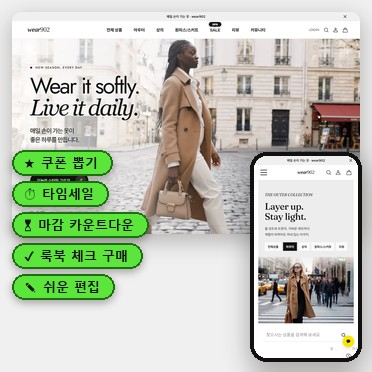
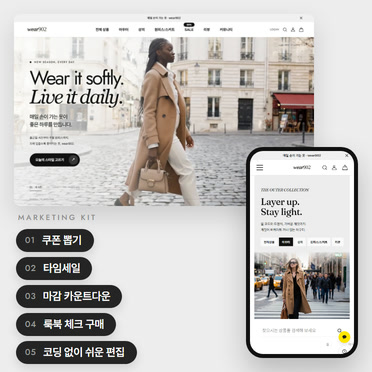
디자인센터 등록 이미지 : 셀링 포인트 5개를 쇼핑몰 톤(흑백 · Pretendard · Jost)으로 다시 그림

diff --git a/docs/tools/designcenter/listing-badges.js b/docs/tools/designcenter/listing-badges.js
@@ -1,0 +1,57 @@
+// 디자인센터 등록 이미지 3장 + 셀링 포인트 5개 (쇼핑몰과 같은 흑백 톤 · Pretendard · Jost)
+//   node docs/tools/designcenter/listing-badges.js
+// 입력 : _deploy/dc/desk.png (PC 1280×820) · mobile-list.png (휴대폰 @2x) — dcshot.js 로 찍는다
+// 출력 : _deploy/dc/badge/main.jpg 372×372 (목록 카드) · display.jpg 330×489 · thumb.jpg 330×450
+//        HTML 로 그려 2배로 캡처한 뒤 ffmpeg 로 줄인다 (글자가 또렷하게)
+const puppeteer = require('puppeteer-core');
+const { execFileSync } = require('child_process');
+const path = require('path');
+const fs = require('fs');
+const DC = path.resolve(__dirname, '../../../_deploy/dc');
+const OUT = path.join(DC, 'badge'); fs.mkdirSync(OUT, { recursive: true });
+const url = f => 'file:///' + path.join(DC, f).replace(/\\/g, '/');
+
+const POINTS = ['쿠폰 뽑기', '타임세일', '마감 카운트다운', '룩북 체크 구매', '코딩 없이 쉬운 편집'];
+
+// pc : [x, y, 폭] · phone : [오른쪽 여백, 아래 여백, 폭] · kit : [x, y] 셀링 포인트 블록 위치
+const SIZES = {
+  main:    { w: 372, h: 372, pc: [14, 14, 300], phone: [14, 14, 104], kit: [16, 214], fs: 11 },
+  display: { w: 330, h: 489, pc: [12, 14, 306], phone: [14, 14, 124], kit: [14, 232], fs: 12.5 },
+  thumb:   { w: 330, h: 450, pc: [12, 14, 306], phone: [14, 14, 116], kit: [14, 226], fs: 12 },
+};
+
+const html = s => `<!doctype html><meta charset="utf-8">
+<link rel="stylesheet" href="https://cdn.jsdelivr.net/gh/orioncactus/pretendard@v1.3.9/dist/web/variable/pretendardvariable.min.css">
+<link rel="stylesheet" href="https://fonts.googleapis.com/css2?family=Jost:wght@400;500;600&display=block">
+<style>
+*{margin:0;box-sizing:border-box}
+body{width:${s.w}px;height:${s.h}px;background:#ededed;position:relative;overflow:hidden;font-family:'Pretendard Variable',Pretendard,sans-serif;color:#242424}
+.pc{position:absolute;left:${s.pc[0]}px;top:${s.pc[1]}px;width:${s.pc[2]}px;border-radius:7px;overflow:hidden;box-shadow:0 10px 24px rgba(0,0,0,.14);background:#fff}
+.pc img{display:block;width:100%}
+.ph{position:absolute;right:${s.phone[0]}px;bottom:${s.phone[1]}px;width:${s.phone[2] + 8}px;height:${Math.round(s.phone[2] * 1.95) + 8}px;padding:4px;border-radius:17px;background:#111;box-shadow:0 14px 28px rgba(0,0,0,.22)}
+.ph div{width:100%;height:100%;border-radius:13px;overflow:hidden;background:#fff}.ph img{display:block;width:100%}
+.kit{position:absolute;left:${s.kit[0]}px;top:${s.kit[1]}px}
+.kit small{display:block;font:500 ${s.fs - 3.5}px/1 Jost,sans-serif;letter-spacing:.24em;color:#8a8a8a;margin:0 0 7px 2px}
+.kit ul{list-style:none;padding:0;display:flex;flex-direction:column;align-items:flex-start;gap:${Math.round(s.fs * .42)}px}
+.kit li{display:flex;align-items:center;gap:7px;height:${Math.round(s.fs * 2.05)}px;padding:0 ${Math.round(s.fs * 1.05)}px 0 ${Math.round(s.fs * .85)}px;border-radius:999px;background:#242424;color:#fff;font-size:${s.fs}px;font-weight:600;letter-spacing:-.02em;white-space:nowrap;box-shadow:0 4px 10px rgba(0,0,0,.12)}
+.kit li b{font:500 ${s.fs - 2.5}px/1 Jost,sans-serif;letter-spacing:.04em;color:#9d9d9d}
+</style>
+<div class="pc"><img src="${url('desk.png')}"></div>
+<div class="ph"><div><img src="${url('mobile-list.png')}"></div></div>
+<div class="kit"><small>MARKETING KIT</small><ul>${POINTS.map((p, i) => `<li><b>0${i + 1}</b>${p}</li>`).join('')}</ul></div>`;
+
+(async () => {
+  const b = await puppeteer.launch({ executablePath: 'C:/Program Files/Google/Chrome/Application/chrome.exe', headless: 'new', args: ['--allow-file-access-from-files'] });
+  const pg = await b.newPage();
+  for (const [name, s] of Object.entries(SIZES)) {
+    await pg.setViewport({ width: s.w, height: s.h, deviceScaleFactor: 2 });
+    const tmp = path.join(OUT, name + '.html'); fs.writeFileSync(tmp, html(s));
+    await pg.goto('file:///' + tmp.replace(/\\/g, '/'), { waitUntil: 'networkidle0' });
+    await pg.evaluate(() => document.fonts.ready);
+    const png = path.join(OUT, name + '@2x.png'); await pg.screenshot({ path: png });
+    execFileSync('ffmpeg', ['-v', 'error', '-y', '-i', png, '-vf', `scale=${s.w}:${s.h}:flags=lanczos`, '-q:v', '2', path.join(OUT, name + '.jpg')]);
+    fs.unlinkSync(tmp); fs.unlinkSync(png);
+    console.log(name, s.w + '×' + s.h, fs.statSync(path.join(OUT, name + '.jpg')).size);
+  }
+  await b.close();
+})();
